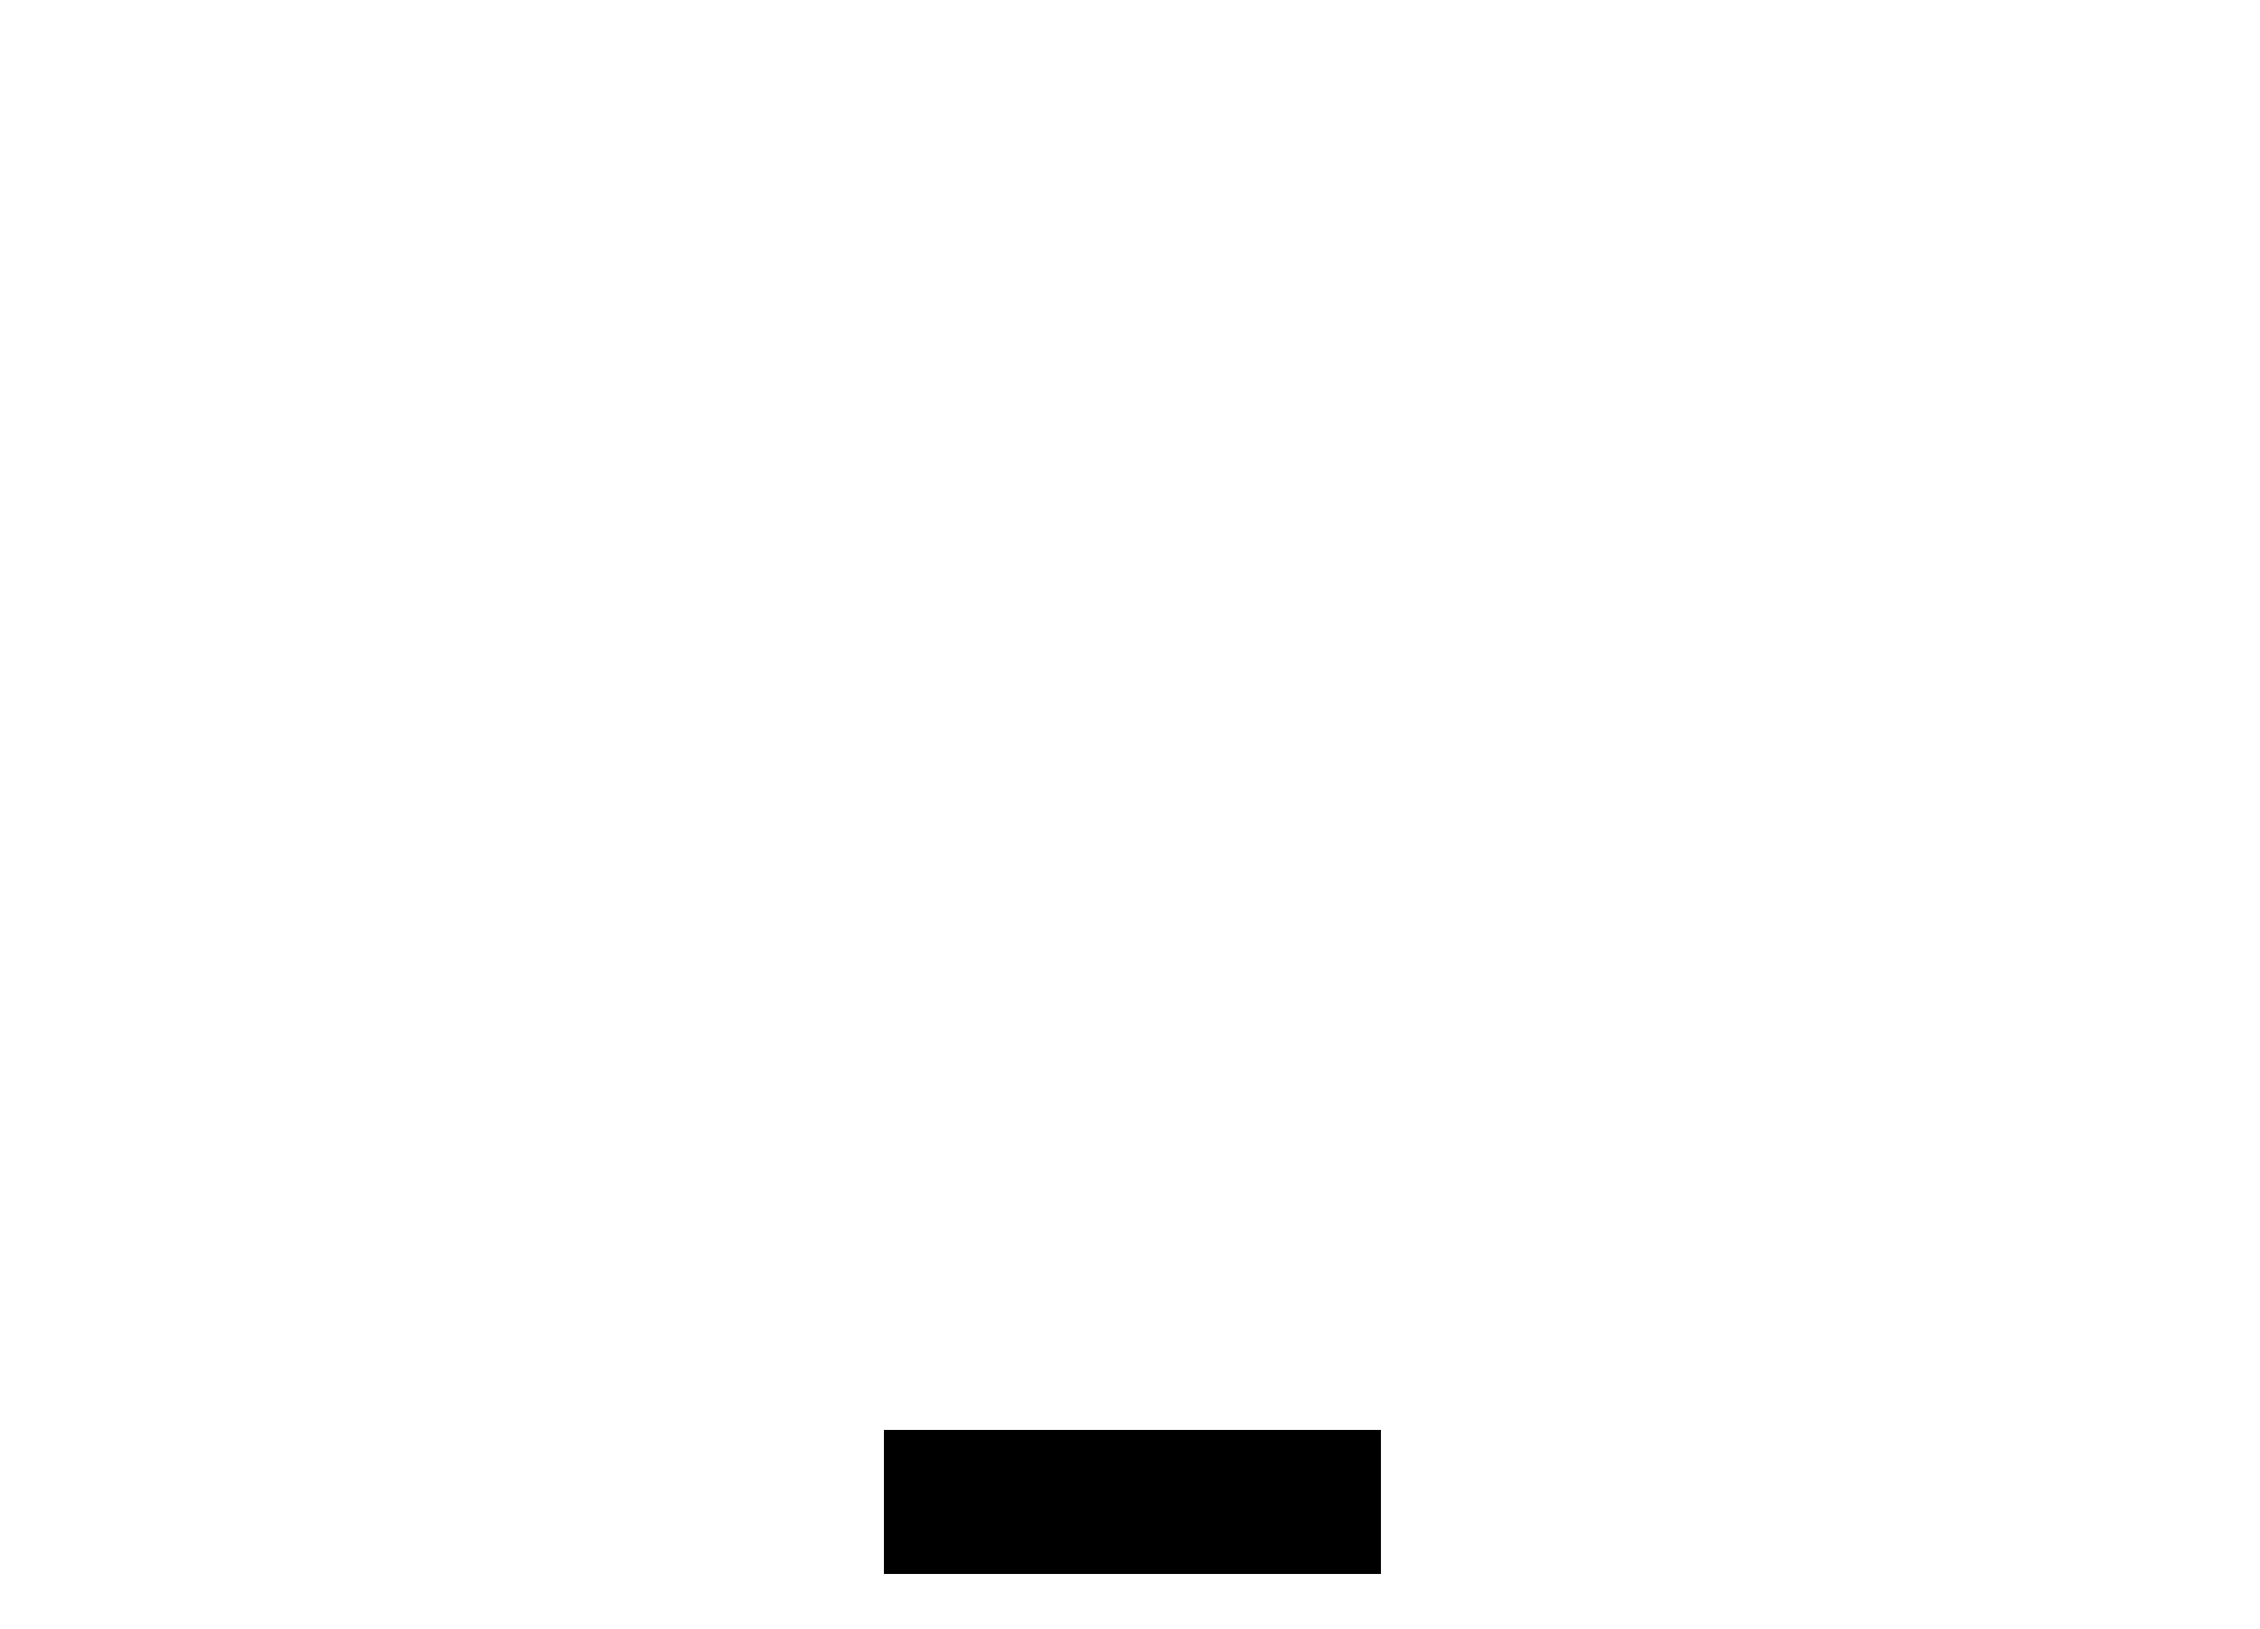
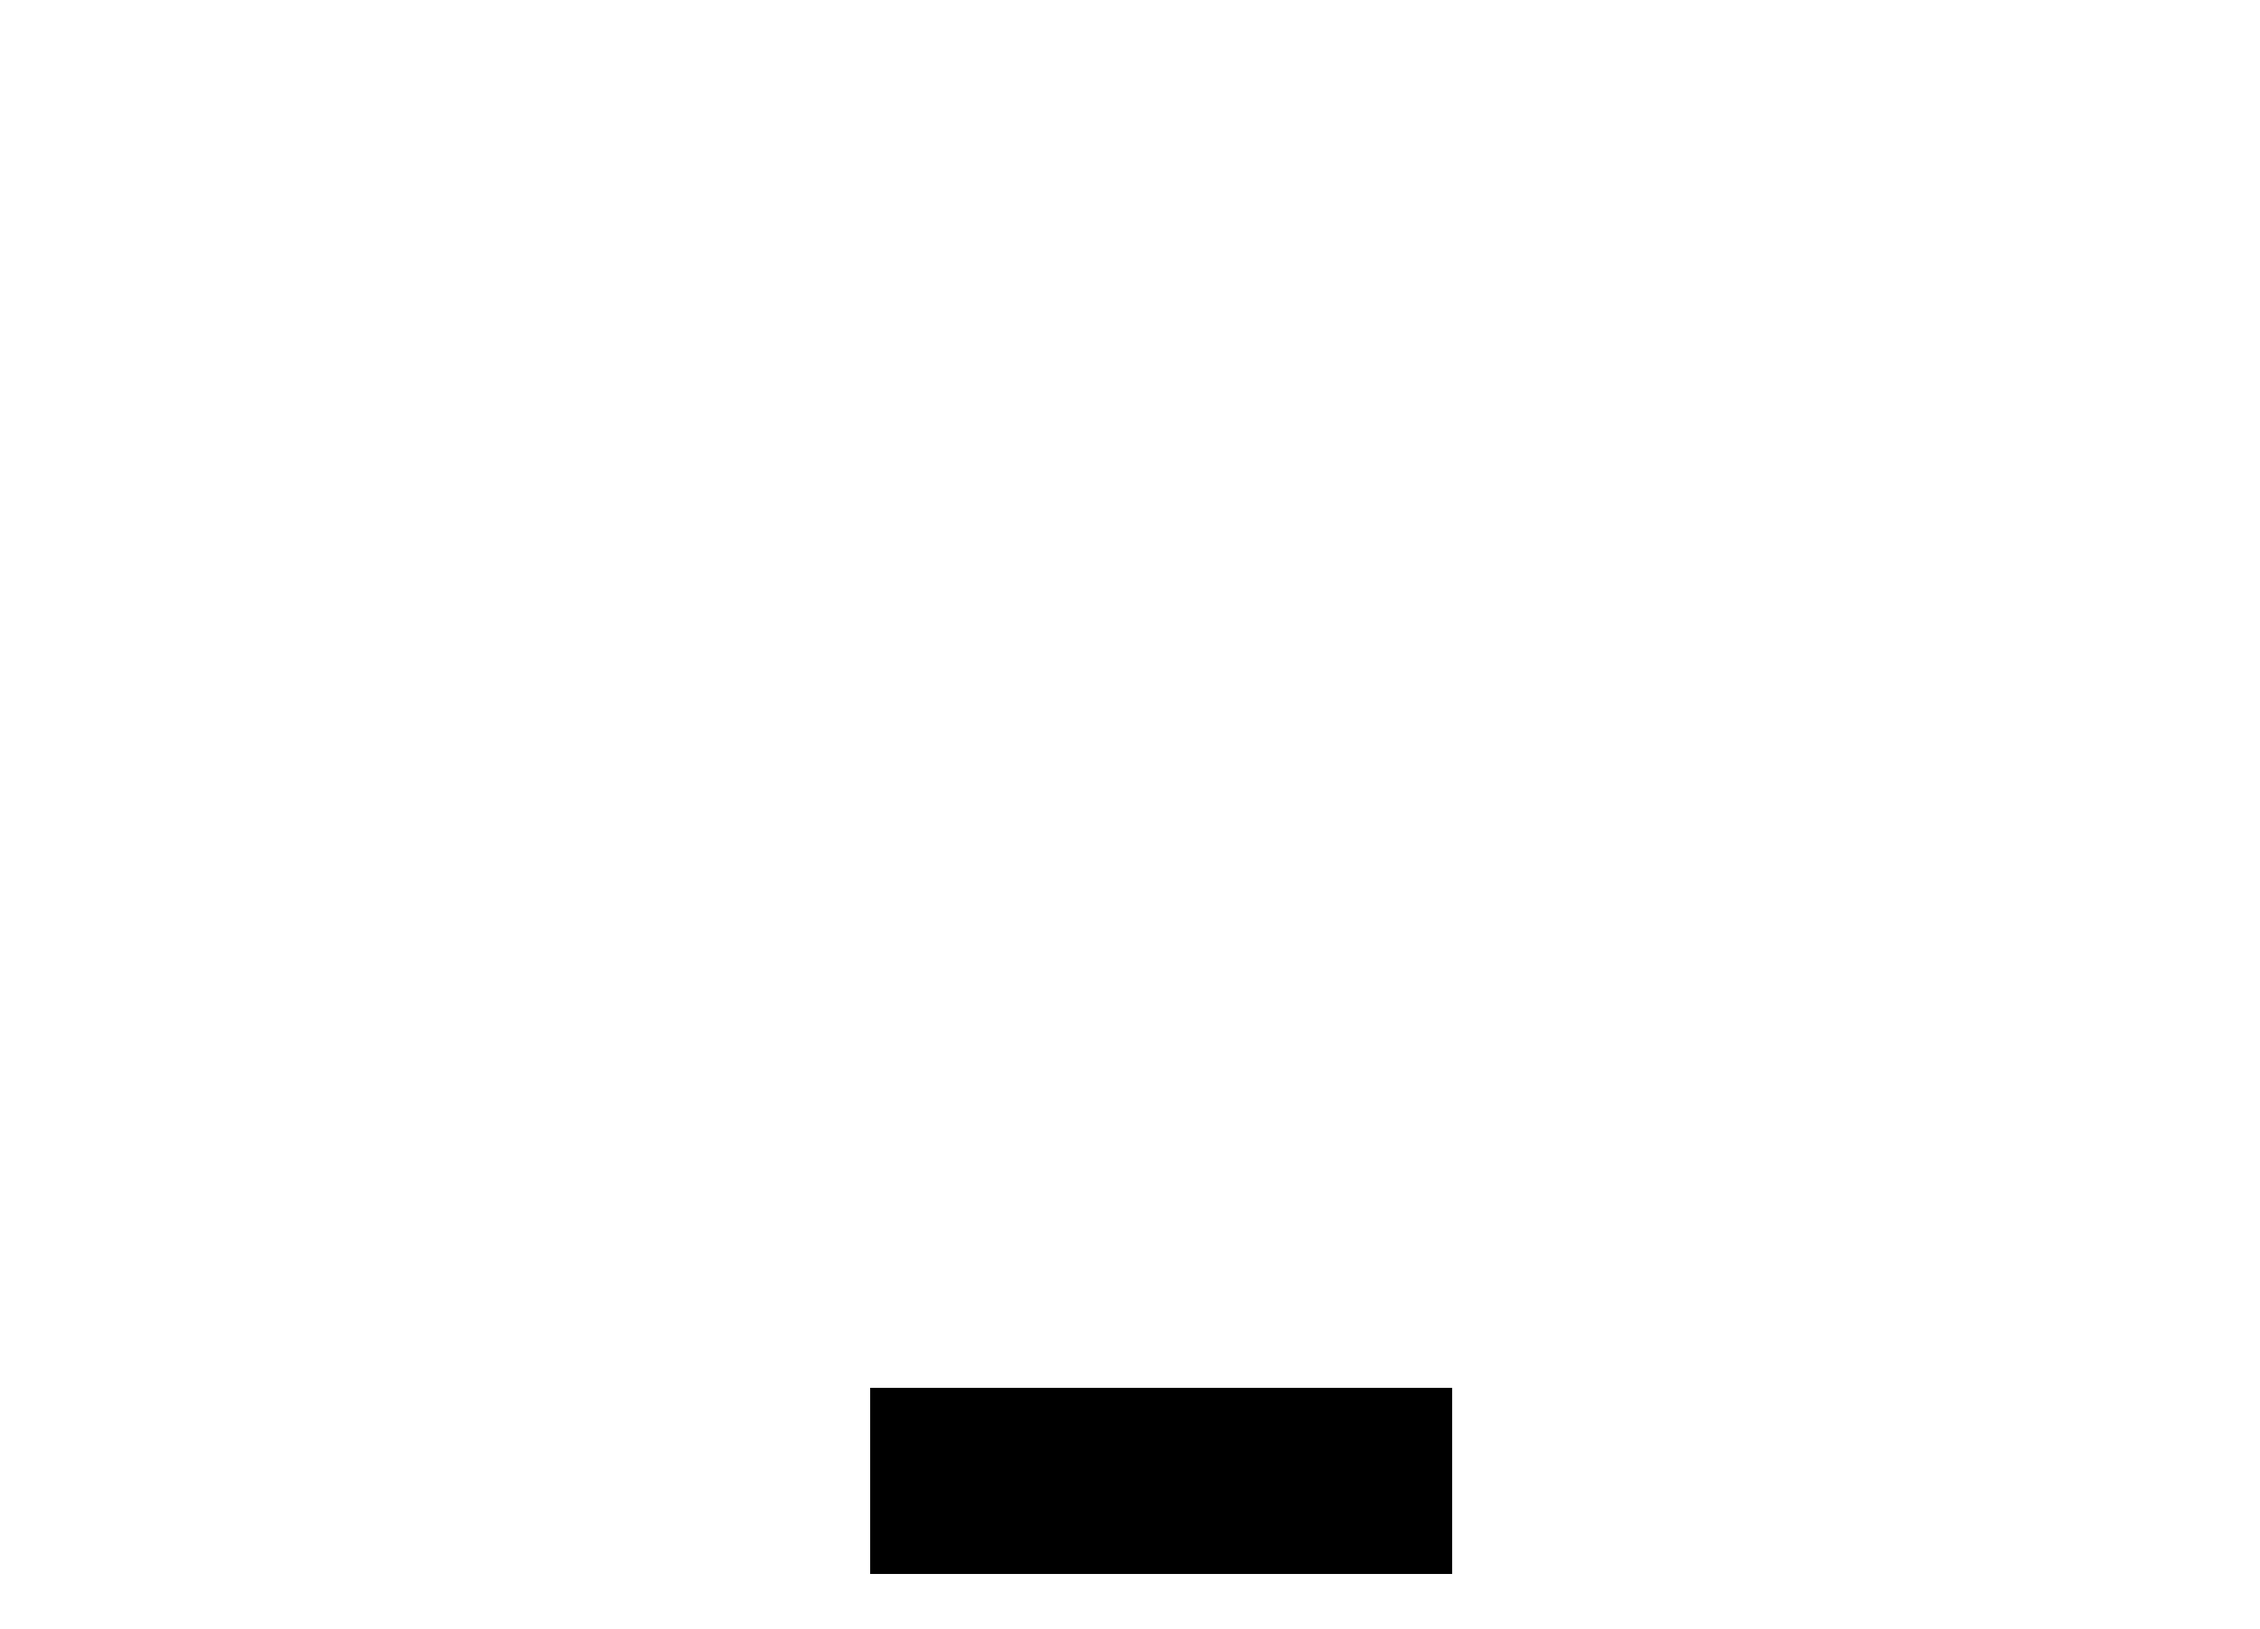
Updated text removal

Changed region(s): [[0.3739, 0.8316, 0.6544, 0.9856]]

diff --git a/week2/main.py b/week2/main.py
@@ -67,18 +67,14 @@ def text_removal_mask(img_gray, name, strel, strel_pd, num_cols, coords):
 
         level = round(np.mean(values_t[j,:]))
         
-        if level <= 150:
+        if level <= 128:
             final_img = cv.morphologyEx(img_gray, cv.MORPH_OPEN, strel)
-            mask = (final_img != level)
+            mask = (final_img >= max(0,level-3)) * (final_img <= level+3)
             mask = mask.astype(np.uint8)
             mask *= 255
-            mask = cv.bitwise_not(mask)
-        elif level > 150:
+        elif level > 128:
             final_img = cv.morphologyEx(img_gray, cv.MORPH_CLOSE, strel)
-            mask = (final_img >= level-3) * (final_img <= level+3)
-            #mask = cv.morphologyEx(np.uint8(mask), cv.MORPH_CLOSE, np.ones((60,60),np.uint8))
-            #mask = cv.morphologyEx(mask, cv.MORPH_OPEN, np.ones((60,60),np.uint8))
-            #mask = (final_img == level)
+            mask = (final_img >= max(0,level-3)) * (final_img <= level+3)
             mask = mask.astype(np.uint8)
             mask *= 255
 
